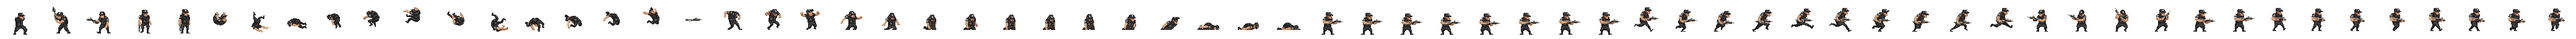
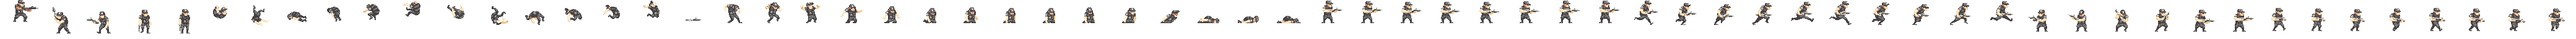
169
cop animation들 추가
몬스터 인식충돌체 스케일링 함수화
몬스터 리셋 제대로 안되던점 수정

Changed region(s): [[0.0, 0.0312, 1.0, 0.875], [0.8438, 0.7812, 0.875, 0.8125], [0.7812, 0.7812, 0.8125, 0.8125]]

diff --git a/Engine_SOURCE/Cop.cpp b/Engine_SOURCE/Cop.cpp
@@ -14,11 +14,11 @@ namespace dru
 
 		CAnimator* mAnimator = this->AddComponent<CAnimator>(eComponentType::Animator);
 		mAnimator->Create(L"Cop_Idle", Material->GetTexture(), { 2112.f, 0.f }, { 64.f, 64.f }, Vector2::Zero, 8, { 50.f, 50.f }, 0.1f);
-	/*	mAnimator->Create(L"Cop_Run", Material->GetTexture(), { 6016.f, 0.f }, { 64.f, 64.f }, Vector2::Zero, 10, { 50.f, 50.f }, 0.1f);
-		mAnimator->Create(L"Cop_Attack", Material->GetTexture(), { 0.f, 0.f }, { 64.f, 64.f }, Vector2::Zero, 8, { 50.f, 50.f }, 0.1f);
-		mAnimator->Create(L"Cop_DeadAirUp", Material->GetTexture(), { 3328.f, 0.f }, { 64.f, 64.f }, Vector2::Zero, 1, { 50.f, 50.f }, 0.1f);
-		mAnimator->Create(L"Cop_DeadAirDown", Material->GetTexture(), { 3392.f, 0.f }, { 64.f, 64.f }, Vector2::Zero, 1, { 50.f, 50.f }, 0.1f);
-		mAnimator->Create(L"Cop_DeadGround", Material->GetTexture(), { 3328.f, 0.f }, { 64.f, 64.f }, Vector2::Zero, 18, { 50.f, 50.f }, 0.1f);*/
+		mAnimator->Create(L"Cop_Run", Material->GetTexture(), { 2622.f, 0.f }, { 64.f, 64.f }, Vector2::Zero, 10, { 50.f, 50.f }, 0.1f);
+		mAnimator->Create(L"Cop_Attack", Material->GetTexture(), { 0.f, 0.f }, { 64.f, 64.f }, Vector2::Zero, 1, { 50.f, 50.f }, 0.1f);
+		mAnimator->Create(L"Cop_DeadAirUp", Material->GetTexture(), { 1152.f, 0.f }, { 64.f, 64.f }, Vector2::Zero, 1, { 50.f, 50.f }, 0.1f);
+		mAnimator->Create(L"Cop_DeadAirDown", Material->GetTexture(), { 1216.f, 0.f }, { 64.f, 64.f }, Vector2::Zero, 1, { 50.f, 50.f }, 0.1f);
+		mAnimator->Create(L"Cop_DeadGround", Material->GetTexture(), { 1280.f, 0.f }, { 64.f, 64.f }, Vector2::Zero, 13, { 50.f, 50.f }, 0.1f);
 
 		mAnimator->Play(L"Cop_Idle");
 
@@ -29,7 +29,8 @@ namespace dru
 	}
 	void CCop::Initialize()
 	{
-
+		Vector3 defaultScale = Vector3(6.f, 1.f, 1.f);
+		AddRay(defaultScale);
 		CMonster::Initialize();
 	}
 	void CCop::update()

diff --git a/Engine_SOURCE/Stage2.cpp b/Engine_SOURCE/Stage2.cpp
@@ -10,9 +10,9 @@ namespace dru
 		, mCop1DefaultPos{}
 	{
 		mStageState = eStageState::ReadyEnd;
-		mPlayerDefaultPos = Vector3(-6.f, -2.5f, 3.f);
-		mGrunt1DefaultPos = Vector3(0.f, -2.5f, 3.f);
-		mCop1DefaultPos = Vector3(0.f, -2.5f, 3.f);
+		mPlayerDefaultPos = Vector3(-6.f, -3.f, 3.f);
+		mGrunt1DefaultPos = Vector3(0.f, -3.f, 3.f);
+		mCop1DefaultPos = Vector3(0.f, -3.f, 3.f);
 	}
 
 	CStage2::~CStage2()
@@ -77,11 +77,11 @@ namespace dru
 		CPlayerScript* playerScript = mPlayer->GetScript<CPlayerScript>();
 		playerScript->Reset();
 
-		//mGrunt1->SetPos(mGrunt1DefaultPos);
-		//mGrunt1->GetScript<CMonsterScript>()->Reset();
+		mGrunt1->SetPos(mGrunt1DefaultPos);
+		mGrunt1->GetScript<CMonsterScript>()->Reset();
 
-		mCop1->SetPos(mCop1DefaultPos);
-		mCop1->GetScript<CMonsterScript>()->Reset();
+		//mCop1->SetPos(mCop1DefaultPos);
+		//mCop1->GetScript<CMonsterScript>()->Reset();
 
 		CStage::Reset();
 	}
@@ -94,16 +94,16 @@ namespace dru
 			mRewindObjects.push_back(mPlayer);
 		}
 
-		//{
-		//	mGrunt1 = object::Instantiate<CGrunt>(eLayerType::Monster, L"Grunt");
-		//	mGrunt1->SetPos(mGrunt1DefaultPos);
-		//	mRewindObjects.push_back(mGrunt1);
-		//}
 		{
-			mCop1 = object::Instantiate<CCop>(eLayerType::Monster, L"Cop");
-			mCop1->SetPos(mCop1DefaultPos);
-			mRewindObjects.push_back(mCop1);
+			mGrunt1 = object::Instantiate<CGrunt>(eLayerType::Monster, L"Grunt");
+			mGrunt1->SetPos(mGrunt1DefaultPos);
+			mRewindObjects.push_back(mGrunt1);
 		}
+		//{
+		//	mCop1 = object::Instantiate<CCop>(eLayerType::Monster, L"Cop");
+		//	mCop1->SetPos(mCop1DefaultPos);
+		//	mRewindObjects.push_back(mCop1);
+		//}
 
 	}
 

diff --git a/Engine_SOURCE/MonsterScript.cpp b/Engine_SOURCE/MonsterScript.cpp
@@ -42,8 +42,8 @@ namespace dru
 		mTransform = GetOwner()->GetComponent<CTransform>();
 		mMonsterName = GetOwner()->GetName();
 
-		//mAnimator->GetCompleteEvent(mMonsterName + L"_DeadGround") = std::bind(&CMonsterScript::deadgroundComplete, this);
-		//mAnimator->GetCompleteEvent(mMonsterName + L"_Attack") = std::bind(&CMonsterScript::attackComplete, this);
+		mAnimator->GetCompleteEvent(mMonsterName + L"_DeadGround") = std::bind(&CMonsterScript::deadgroundComplete, this);
+		mAnimator->GetCompleteEvent(mMonsterName + L"_Attack") = std::bind(&CMonsterScript::attackComplete, this);
 
 	}
 
@@ -203,9 +203,11 @@ namespace dru
 	void CMonsterScript::Reset()
 	{
 		mbDead = false;
+		mHitTimer = 0.f;
 		mState.reset();
 		mState[(UINT)eMonsterState::Idle] = true;
 		mAnimator->Play(GetOwner()->GetName() + L"_Idle");
+		GetOwner()->GetComponent<CCollider2D>()->RenderingOn();
 
 
 		GetOwnerType<CMonster>()->AddRay();

diff --git a/Engine_SOURCE/Grunt.cpp b/Engine_SOURCE/Grunt.cpp
@@ -13,6 +13,7 @@ namespace dru
 		SpriteRenderer->SetMaterial(Material);
 
 
+
 		CAnimator* mAnimator = this->AddComponent<CAnimator>(eComponentType::Animator);
 		mAnimator->Create(L"Grunt_Idle", Material->GetTexture(), { 4480.f, 0.f }, { 64.f, 64.f }, Vector2::Zero, 8, { 50.f, 50.f }, 0.1f);
 		mAnimator->Create(L"Grunt_Run", Material->GetTexture(), { 6016.f, 0.f }, { 64.f, 64.f }, Vector2::Zero, 10, { 50.f, 50.f }, 0.1f);
@@ -33,6 +34,7 @@ namespace dru
 
 	void CGrunt::Initialize()
 	{
+		AddRay();
 		CMonster::Initialize();
 	}
 

diff --git a/Engine_SOURCE/Monster.cpp b/Engine_SOURCE/Monster.cpp
@@ -27,8 +27,6 @@ namespace dru
 
 	void CMonster::Initialize()
 	{
-
-		AddRay();
 		CLiveGameObj::Initialize();
 	}
 
@@ -56,12 +54,15 @@ namespace dru
 	}
 
 
-	void CMonster::AddRay()
+	void CMonster::AddRay(Vector3 _Scale)
 	{
 		if (!mRay)
 		{
 			mRay = object::Instantiate<CMonsterRay>(eLayerType::Ray, this, L"MonsterRay");
 			mRay->GetScript<CMonsterRayScript>()->SetMonster(this);
+
+			if(_Scale != Vector3::Zero)
+				mRay->SetScale(_Scale);
 		}
 	}
 	void CMonster::SetRayPos()

diff --git a/Engine_SOURCE/MonsterRay.cpp b/Engine_SOURCE/MonsterRay.cpp
@@ -12,8 +12,8 @@ namespace dru
 		ray->SetName(L"col_monsterray");
 		ray->SetType(eColliderType::Rect);
 
-
-		SetScale(Vector3(5.f, 1.f, 1.f));
+		Vector3 defaultScale = Vector3(5.f, 1.f, 1.f);
+		SetScale(defaultScale);
 
 		CMonsterRayScript* script = AddComponent<CMonsterRayScript>(eComponentType::Script);
 		script->Initialize();

diff --git a/Engine_SOURCE/GruntScript.cpp b/Engine_SOURCE/GruntScript.cpp
@@ -10,10 +10,10 @@ namespace dru
 	}
 	void CGruntScript::Initialize()
 	{
+		CMonsterScript::Initialize();
 
 		mAnimator->GetFrameEvent(GetOwner()->GetName() + L"_Attack", 4) = std::bind(&CGruntScript::attackFrame2, this);
 
-		CMonsterScript::Initialize();
 	}
 	void CGruntScript::update()
 	{

diff --git a/Engine_SOURCE/Monster.h b/Engine_SOURCE/Monster.h
@@ -21,7 +21,7 @@ namespace dru
 		virtual void render();
 
 
-		void AddRay();
+		void AddRay(Vector3 _Scale = Vector3::Zero);
 		void SetRayPos();
 		CMonsterRay* GetRay() const { return mRay; }
 		bool IsMonsterDead();
